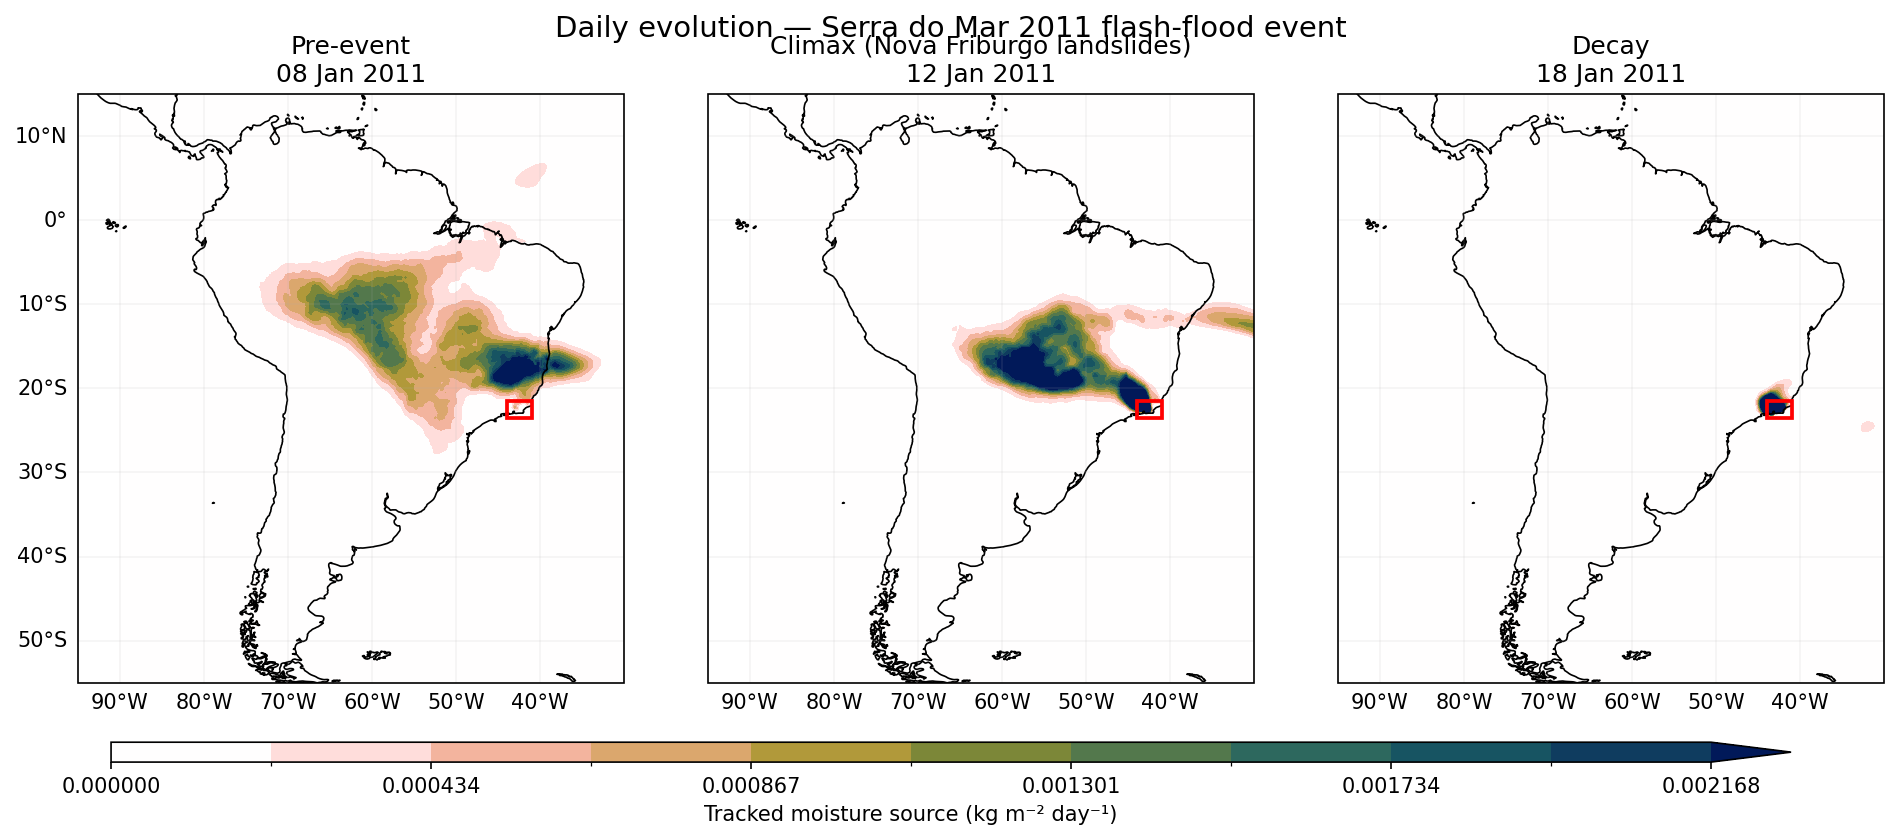
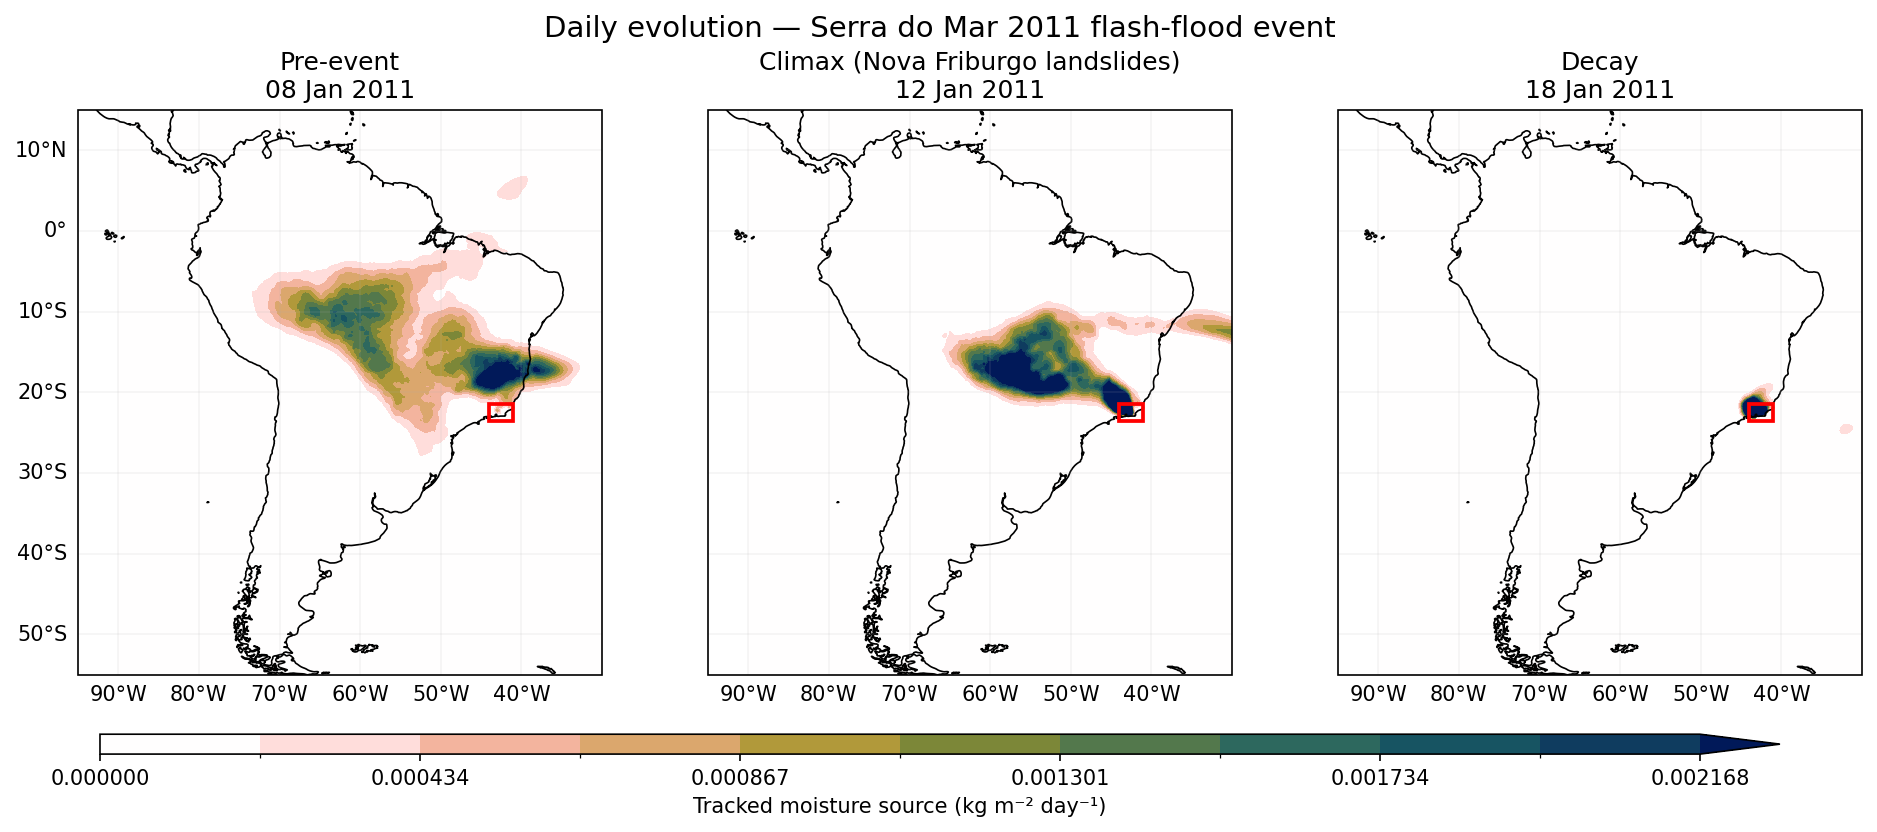
README: drop the decadal hero, keep only the event montage
The Santa Cruz decadal climatology was visually subtle — three nearly
identical maps with small inter-decade differences. The Serra do Mar
event montage carries the moisture-tracking story more vividly (clear
spatial contraction across three days), so use that as the sole hero
and remove docs/hero.png.

Also raise the supertitle / sub-title gap on the event montage so the
two title rows don't crowd.

diff --git a/tools/build_readme_event_montage.py b/tools/build_readme_event_montage.py
@@ -130,12 +130,12 @@ def build_montage(field: xr.DataArray) -> None:
         title = f"{label}\n{date_pretty}"
         style_ax(ax, title, draw_y=col_idx == 0)
 
-    fig.subplots_adjust(bottom=0.14, wspace=0.05)
+    fig.subplots_adjust(top=0.85, bottom=0.14, wspace=0.05)
     cbar_ax = fig.add_axes([0.15, 0.04, 0.7, 0.025])
     fig.colorbar(cf, cax=cbar_ax, orientation="horizontal",
                  label="Tracked moisture source (kg m⁻² day⁻¹)")
     fig.suptitle("Daily evolution — Serra do Mar 2011 flash-flood event",
-                 fontsize=14)
+                 fontsize=14, y=0.97)
 
     OUT_PATH.parent.mkdir(parents=True, exist_ok=True)
     fig.savefig(OUT_PATH, bbox_inches="tight", dpi=150)

diff --git a/README.md b/README.md
@@ -12,13 +12,6 @@ daily resolution, 1990–2019. The dataset is published on HuggingFace at
 and answers, for any tagged grid cell:
 *"where did the rain that fell here today evaporate from?"*
 
-![Decadal moisture-source maps for Santa Cruz, Bolivia — the "aerial river" feeding the city across three decades, generated by notebook 02](docs/hero.png)
-
-*Three-decade climatology of the moisture sources that feed Santa Cruz,
-Bolivia (notebook 02). The warm pixels mark where the rain originally
-evaporated; the long tail extending into the Amazon basin is the
-"aerial river".*
-
 ![Pre-event / climax / decay snapshots of the moisture source field for the Serra do Mar 2011 flash-flood event, generated by notebook 01](docs/event_montage.png)
 
 *Pre-event, climax, and decay snapshots of the daily moisture-source
